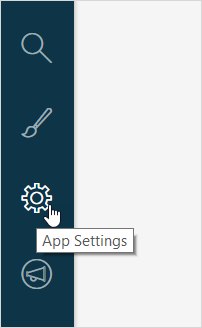
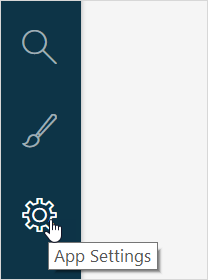
update images

Changed region(s): [[0.0, 0.0, 0.7723, 1.0], [0.0891, 0.0857, 0.297, 0.2286], [0.0891, 0.3143, 0.2673, 0.4286]]

diff --git a/content/refguide/web-modeler/overview-wm.md b/content/refguide/web-modeler/overview-wm.md
@@ -114,7 +114,6 @@ The bottom menu bar provides the following options:
 | Search (magnifying glass) icon | Helps you search through microflows, entities, and pages. Start typing the name of the item you are looking for and the search feature will return any matches it finds, using exact matches as well as fuzzy matches based on the characters entered. <br />You can also use "/" shortcut to search through your app. |
 | [App Settings](app-settings-wm) | Shows an overview of all widgets and their status. Widgets are user interface elements (alerts, buttons, charts, etc.) contained in the building blocks. They are used to build pages from. |
 | [Theme Customizer](theme-customizer-wm) | Here you can style your app with custom branding, colors, and typography. |
-| Feedback | Allows you to provide feedback on the Mendix Web Modeler. The purpose of the feedback on Mendix is to provide low priority issues, questions, and ideas on how to improve the Web Modeler. <br />The Feedback button is not a support option. If there are any platform problems, contact **Mendix Support**. For more information, see [Mendix Support](../../howtogeneral/support/). |
 
 ## 6 Toolbox, Properties, and Buzz
 
@@ -141,7 +140,7 @@ The top bar provides the following options:
 | Recent documents drop-down menu | A document that you are currently viewing is displayed in this option. When you click the drop-down menu, documents that you have recently viewed are displayed in the list. You can click the document to open it. |
 | Publish button | Deploy and run the app. Update your app to deploy the latest changes you made in the Web Modeler. Once deployed, click **View** to view your app in action. |
 | [Checks button](checks-wm) | Shows the errors and warnings currently in your app. If there are any errors in the app, you will not be able to publish your app, until you have solved them.<br />You can also use C shortcut to view the **Checks** panel. |
-| Information icon | Here you can find following information:<ul><li>**About** - shows the information on the Web Modeler version and Mendix version </li><li>**Keyboard Shortcuts** - opens the list of shortcuts in the Web Modeler</li><li>**Take a Product Tour** - starts a  the guided product introduction tour and shows you around the Web Modeler</li><li>**Mendix Academy** - a link to the [Mendix Academy](https://gettingstarted.mendixcloud.com)</li><li>**Mendix Documentation** - a link to the [Mendix Documentation](https://docs.mendix.com/)</li><li>**Mendix Atlas UI** - a link to to the [Mendix Atlas UI documentation](https://atlas.mendix.com)</li><li>**Edit in Desktop Modeler** - opens your app in the Desktop Modeler</li></ul> |
+| Information icon | Here you can find following information:<ul><li>**About** – shows the information on the [Web Modeler version and Mendix version](versions-wm) </li><li>**Keyboard Shortcuts** – opens the list of shortcuts in the Web Modeler</li><li>**Take a Product Tour** – starts a  the guided product introduction tour and shows you around the Web Modeler</li><li>**Ask the Community** – a link to the [Mendix Forum](https://forum.mendixcloud.com/index4.html) where you can ask questions and explore the knowledge offered by the entire Mendix Community<li>**Check the  Documentation** – a link to the [Web Modeler Documentation](index)</li><li>**Contact Mendix Support** – a link to the [Support Portal](https://support.mendix.com/hc/en-us)<li>**Mendix Academy** – a link to the [Mendix Academy](https://gettingstarted.mendixcloud.com)</li><li>**Mendix Assist Is ON** – a setting that enables/disables [Mendix Assist](mx-assist-wm)</li><li>**Edit in Desktop Modeler** – opens your app in the Desktop Modeler</li></ul> |
 
 ## 8 Related Content
 
